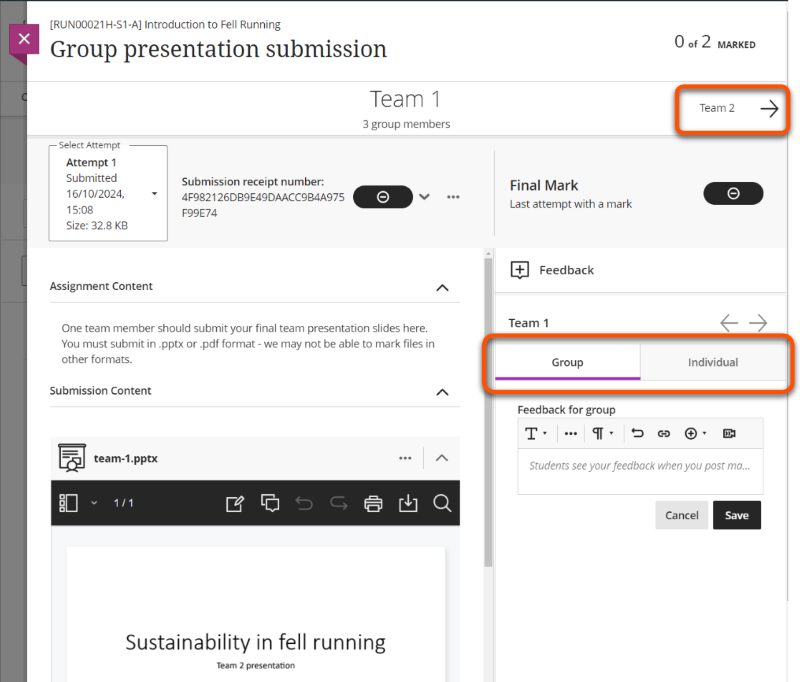
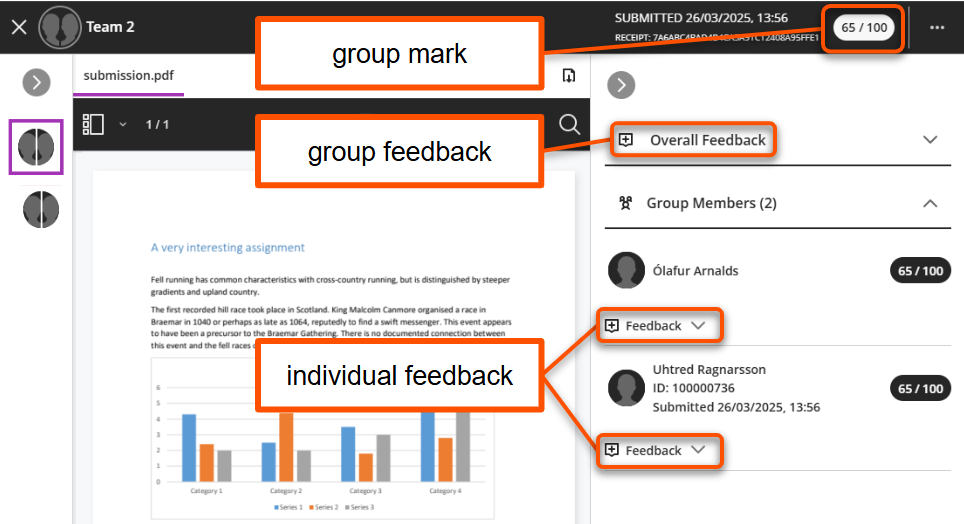
.114 Group assignment marking interface

diff --git a/docs/ultra/assignment-groups.md b/docs/ultra/assignment-groups.md
@@ -152,9 +152,9 @@ For details of the general Assignment marking workflow, see our [marking Assignm
 
 **Marking interface**
 
-- The student panel does not appear for group Assignments. To move between groups, use the arrows above the main marking area or close the marking interface and select another group.
-- Feedback can be given to the whole group and to individual students. The active tab is highlighted and the name of the group or student shown above the feedback box.
-- Marks entered in the marking interface are overall grades automatically given to each group member.
+- Enter the group mark in the mark pill at the top or via a rubric (if used). This mark is automatically given to each group member.
+- Overall feedback is visible to the whole group.
+- Individual feedback can be given via the *Group Members* list. This is only visible to that specific student.
 
 ![decorative](images/assignment-groups-marking-interface.png)
 
